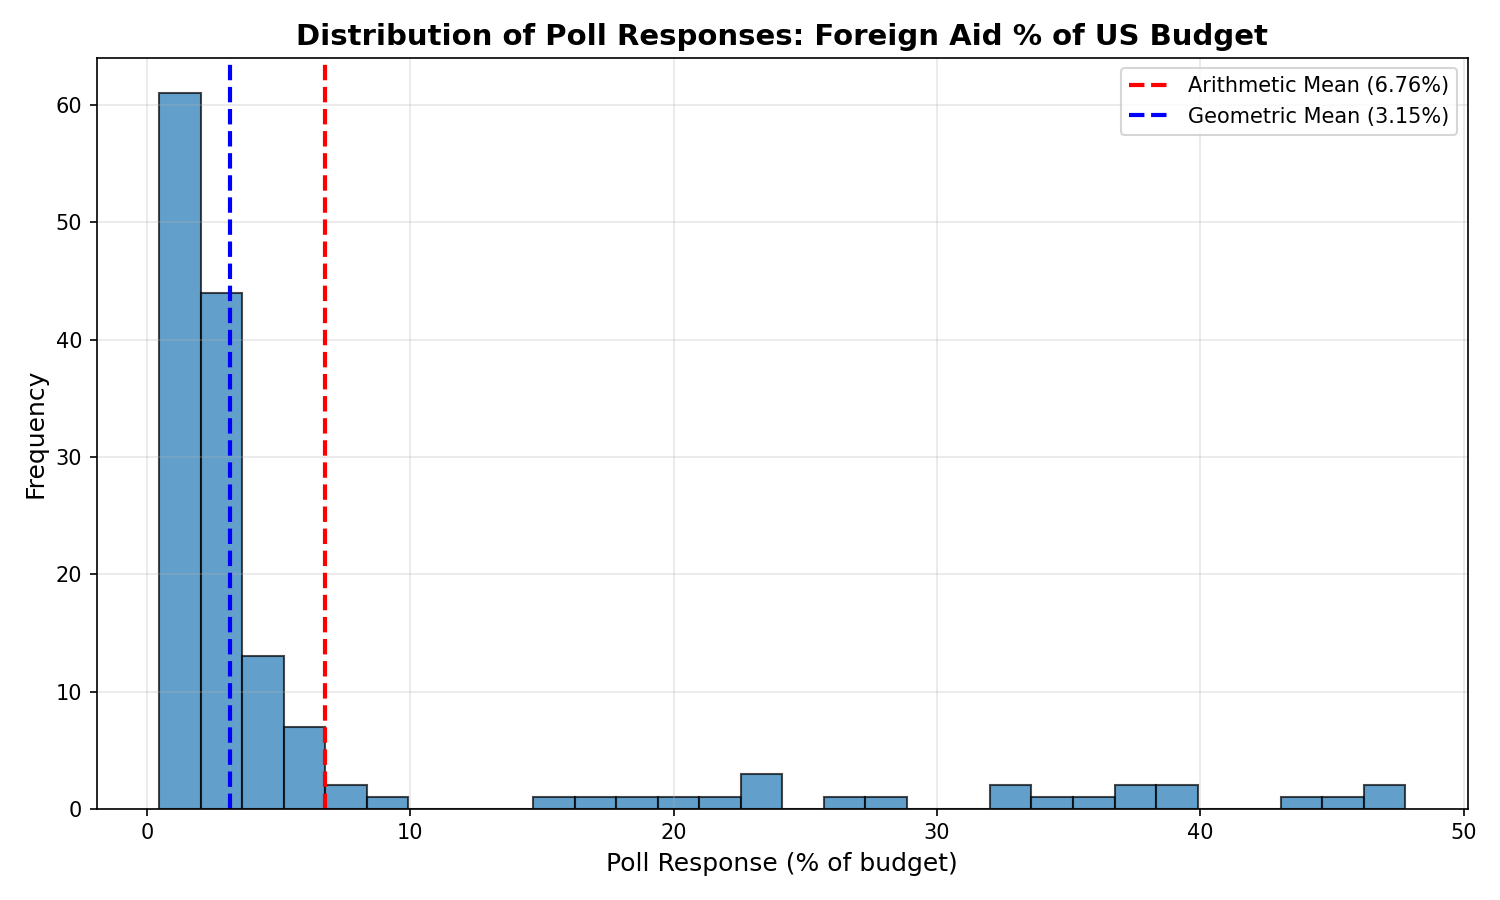
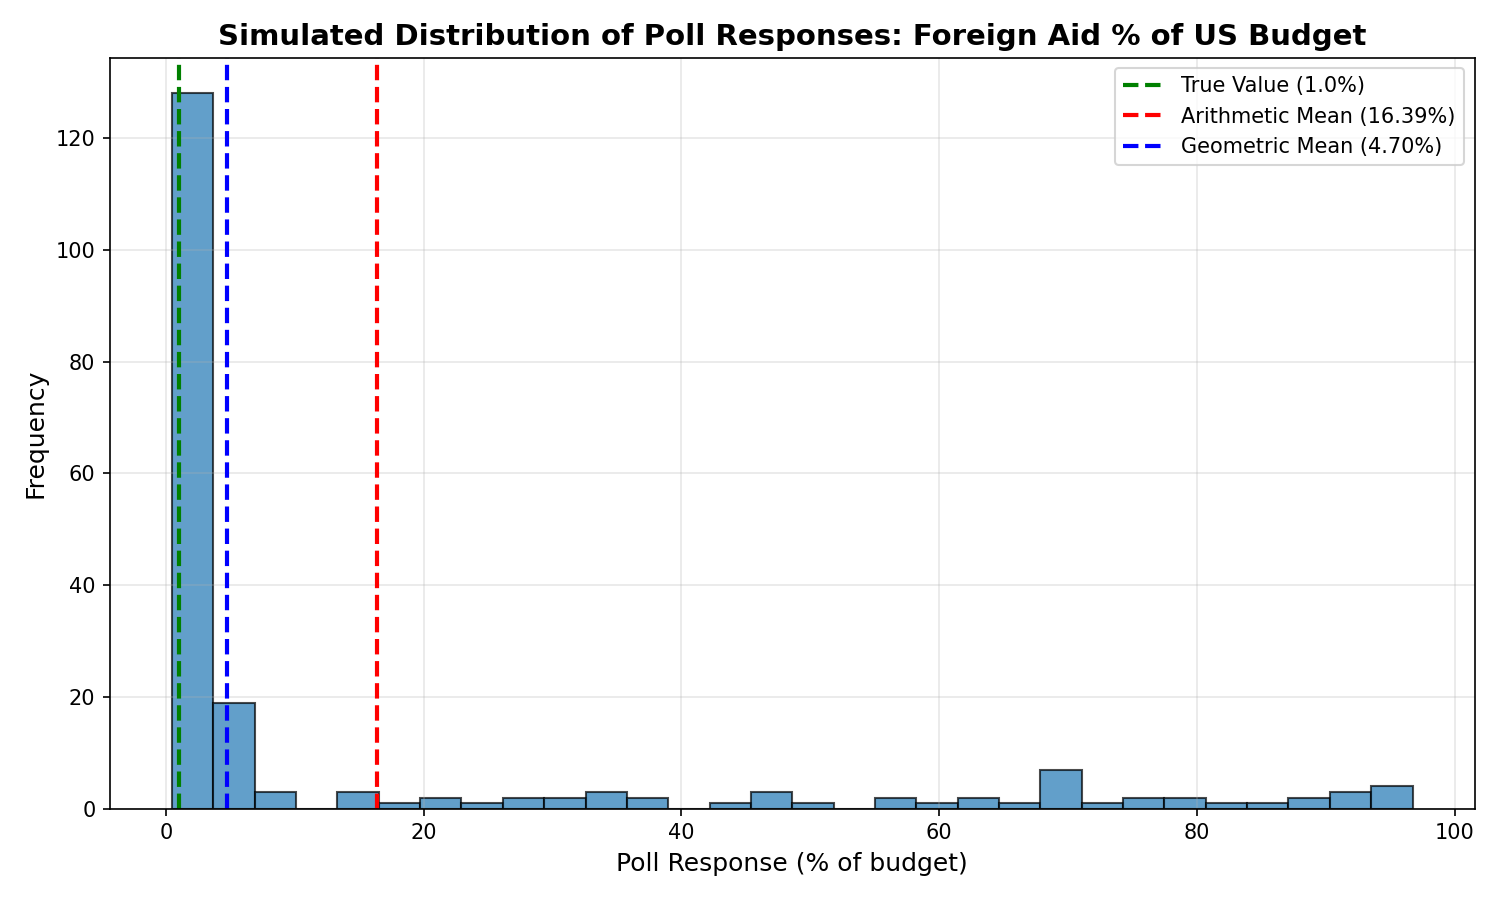
update

diff --git a/geometric_mean_for_polling/geometric_mean_polling.py b/geometric_mean_for_polling/geometric_mean_polling.py
@@ -19,13 +19,13 @@ def generate_poll_responses(n_responses, true_value):
     np.random.seed(42)  # For reproducibility
 
     # Add some clear outliers (15-50%)
-    n_outliers = int(n_responses * 0.15)
+    n_outliers = int(n_responses * 0.25)
 
     # Most responses centered around 2-3% with log-normal distribution
     n_main = n_responses - n_outliers
     main_responses = np.random.lognormal(mean=0.8, sigma=0.6, size=n_main)
 
-    outliers = np.random.uniform(15, 50, size=n_outliers)
+    outliers = np.random.uniform(15, 99, size=n_outliers)
 
     # Combine and shuffle
     all_responses = np.concatenate([main_responses, outliers])
@@ -64,7 +64,7 @@ def create_visualizations(responses, true_value, output_dir='.'):
     # 1. Distribution histogram
     fig, ax = plt.subplots(figsize=(10, 6))
     ax.hist(responses, bins=30, alpha=0.7, edgecolor='black')
-    # ax.axvline(true_value, color='green', linestyle='--', linewidth=2, label=f'True Value ({true_value}%)')
+    ax.axvline(true_value, color='green', linestyle='--', linewidth=2, label=f'True Value ({true_value}%)')
     ax.axvline(
         arithmetic_mean, color='red', linestyle='--', linewidth=2, label=f'Arithmetic Mean ({arithmetic_mean:.2f}%)'
     )
@@ -73,7 +73,7 @@ def create_visualizations(responses, true_value, output_dir='.'):
     # )
     ax.set_xlabel('Poll Response (% of budget)', fontsize=12)
     ax.set_ylabel('Frequency', fontsize=12)
-    ax.set_title('Distribution of Poll Responses: Foreign Aid % of US Budget', fontsize=14, fontweight='bold')
+    ax.set_title('Simulated Distribution of Poll Responses: Foreign Aid % of US Budget', fontsize=14, fontweight='bold')
     ax.legend()
     ax.grid(True, alpha=0.3)
     plt.tight_layout()
@@ -83,7 +83,7 @@ def create_visualizations(responses, true_value, output_dir='.'):
     # 2. Histogram with geometric mean
     fig, ax = plt.subplots(figsize=(10, 6))
     ax.hist(responses, bins=30, alpha=0.7, edgecolor='black')
-    # ax.axvline(true_value, color='green', linestyle='--', linewidth=2, label=f'True Value ({true_value}%)')
+    ax.axvline(true_value, color='green', linestyle='--', linewidth=2, label=f'True Value ({true_value}%)')
     ax.axvline(
         arithmetic_mean, color='red', linestyle='--', linewidth=2, label=f'Arithmetic Mean ({arithmetic_mean:.2f}%)'
     )
@@ -92,7 +92,7 @@ def create_visualizations(responses, true_value, output_dir='.'):
     )
     ax.set_xlabel('Poll Response (% of budget)', fontsize=12)
     ax.set_ylabel('Frequency', fontsize=12)
-    ax.set_title('Distribution of Poll Responses: Foreign Aid % of US Budget', fontsize=14, fontweight='bold')
+    ax.set_title('Simulated Distribution of Poll Responses: Foreign Aid % of US Budget', fontsize=14, fontweight='bold')
     ax.legend()
     ax.grid(True, alpha=0.3)
     plt.tight_layout()

diff --git a/geometric_mean_for_polling/scots_irish_calculation.py b/geometric_mean_for_polling/scots_irish_calculation.py
@@ -114,19 +114,19 @@ if __name__ == "__main__":
     print("\n" + "=" * 50)
     print("Example: Calculating means from dictionary")
     print("=" * 50)
-    guesses = {5.0: 1, 0.1: 50}  # 1 person guessed 5%,
+    guesses = {5.0: 1, 0.1: 49}  # 1 person guessed 5%,
     arith_mean, geo_mean = calculate_means(guesses)
     print(f"Guesses: {guesses}")
     print(f"Arithmetic mean: {arith_mean:.4f}%")
     print(f"Geometric mean: {geo_mean:.4f}%")
 
     # Print log transformation table
-    print_log_transformation()
+    # print_log_transformation()
 
-    # Another example with non-zero guesses
-    print("\n" + "-" * 50)
-    guesses2 = {1.0: 10, 2.0: 5, 3.0: 2}  # Various guesses
-    arith_mean2, geo_mean2 = calculate_means(guesses2)
-    print(f"Guesses: {guesses2}")
-    print(f"Arithmetic mean: {arith_mean2:.4f}%")
-    print(f"Geometric mean: {geo_mean2:.4f}%")
+    # # Another example with non-zero guesses
+    # print("\n" + "-" * 50)
+    # guesses2 = {1.0: 10, 2.0: 5, 3.0: 2}  # Various guesses
+    # arith_mean2, geo_mean2 = calculate_means(guesses2)
+    # print(f"Guesses: {guesses2}")
+    # print(f"Arithmetic mean: {arith_mean2:.4f}%")
+    # print(f"Geometric mean: {geo_mean2:.4f}%")

diff --git a/geometric_mean_for_polling/main.py b/geometric_mean_for_polling/main.py
@@ -12,7 +12,7 @@ from geometric_mean_polling import calculate_geometric_mean, create_visualizatio
 def main():
     """Generate synthetic poll data and create visualizations"""
     # Configuration
-    n_responses = 150  # Number of poll responses
+    n_responses = 200  # Number of poll responses
     true_value = 1.0  # Actual percentage (~1% of US budget is foreign aid)
     output_dir = './output'
 
